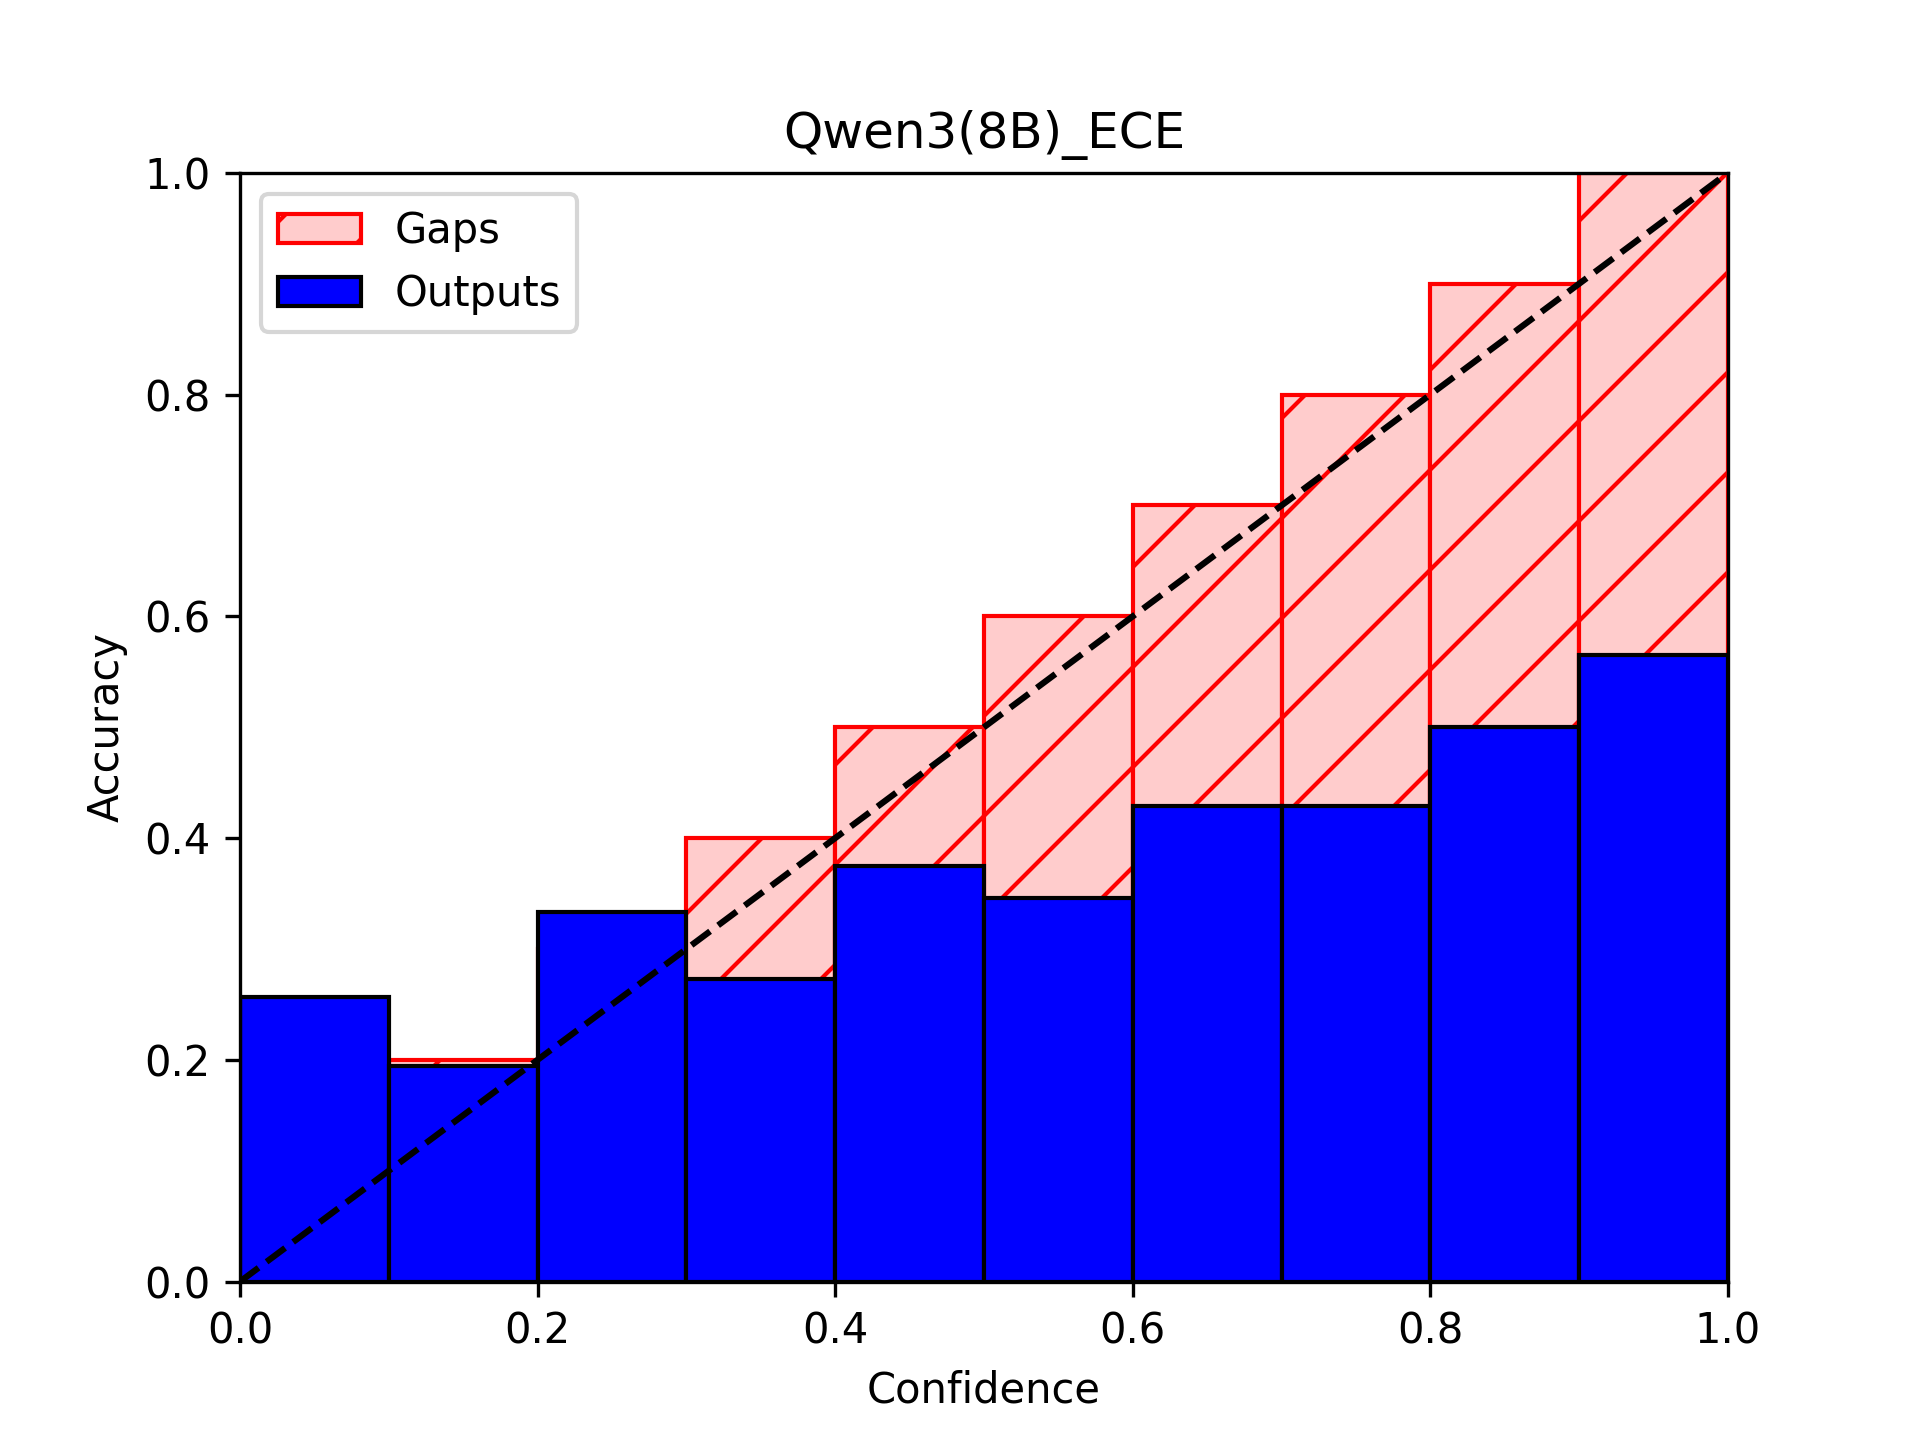
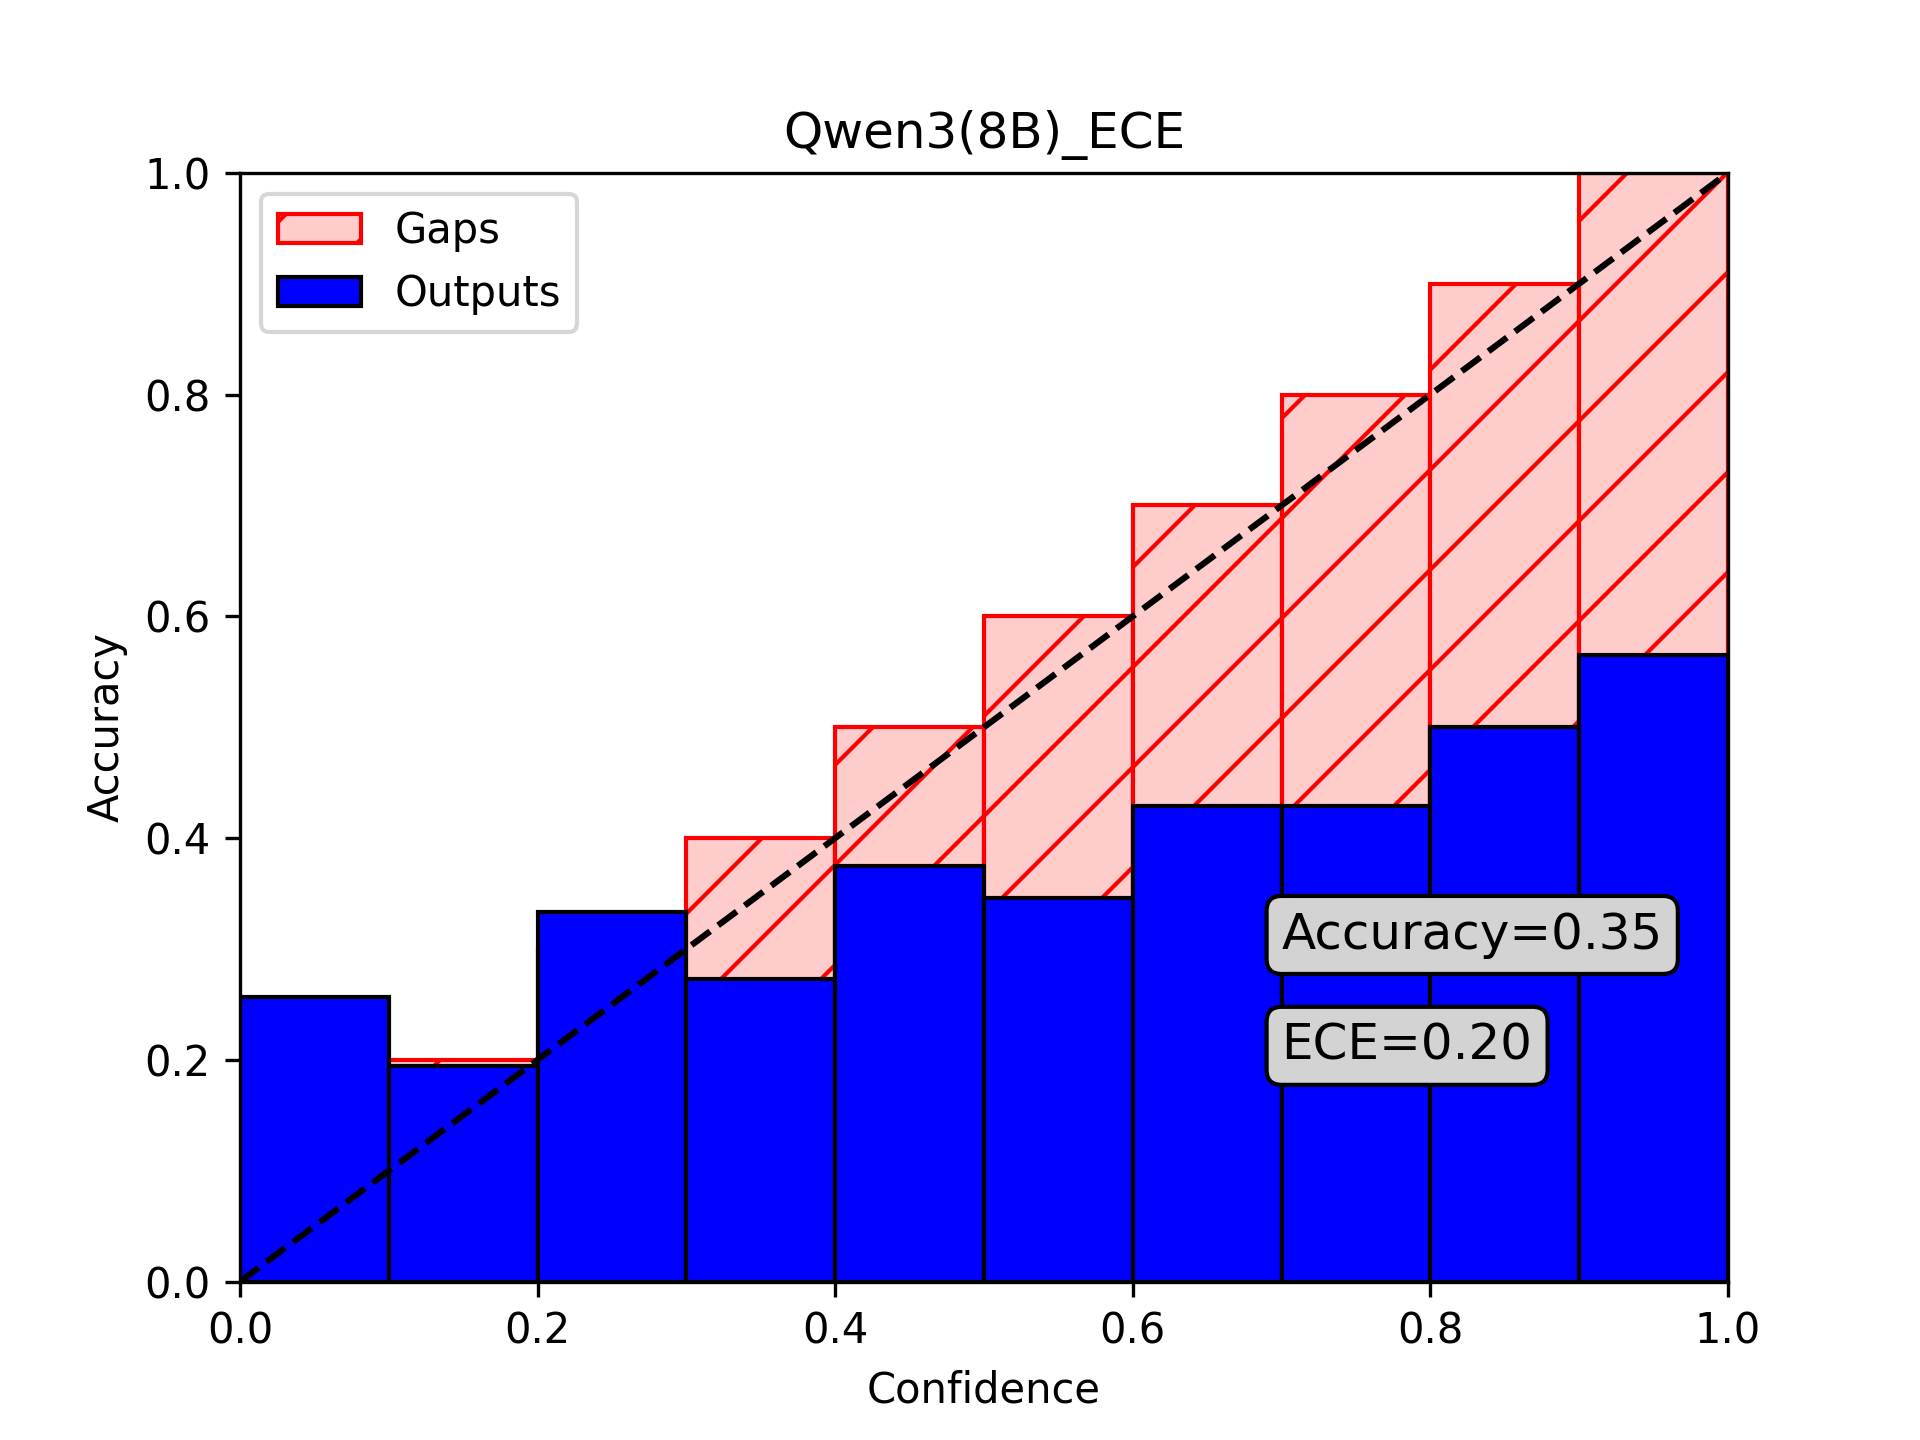
add acc and ECE to plot

Changed region(s): [[0.6562, 0.5938, 0.875, 0.7812]]

diff --git a/logits/ECE.py b/logits/ECE.py
@@ -107,7 +107,7 @@ def build_data(answers, correct_answers, qwen3_results):
     return data
 
 
-def calculate_acc(data):
+def calculate_acc_ECE(data):
     bin_0_1 = []
     bin_0_2 = []
     bin_0_3 = []
@@ -148,10 +148,28 @@ def calculate_acc(data):
             if entry['acc'] == 1:
                 acc += 1
         acc_list.append(acc/len(bin))
+    
+    confidence_list = []
+    for bin in [bin_0_1, bin_0_2, bin_0_3, bin_0_4, bin_0_5, bin_0_6, bin_0_7, bin_0_8, bin_0_9, bin_1_0]:
+        total_confidence = 0
+        for entry in bin:
+            total_confidence += entry['confidence'] 
+        confidence_list.append(total_confidence/len(bin))
+    
+    ece = 0
+    for a,b,c in zip(acc_list, confidence_list, [bin_0_1, bin_0_2, bin_0_3, bin_0_4, bin_0_5, bin_0_6, bin_0_7, bin_0_8, bin_0_9, bin_1_0]):
+        ece += abs(a-b) * (len(c)/len(data))
 
-    return acc_list
-        
-def plot_ECE(acc_list):
+    return acc_list, ece
+
+def calculate_overall_acc(data):
+    acc = 0
+    for entry in data:
+        if entry['acc'] == 1:
+            acc += 1
+    return acc/len(data)
+
+def plot_ECE(acc_list, overall_acc, ece):
 
     expected_acc = [0.1, 0.2, 0.3, 0.4, 0.5, 0.6, 0.7, 0.8, 0.9, 1.0]
 
@@ -159,6 +177,13 @@ def plot_ECE(acc_list):
 
     plt.bar([0.0, 0.1, 0.2, 0.3, 0.4, 0.5, 0.6, 0.7, 0.8, 0.9], acc_list, width=0.1, align='edge', label='Outputs', edgecolor='black', color='blue')
     plt.plot([0,1], [0,1], color='black', linestyle='--')
+    plt.text(0.7, 0.3, f'Accuracy={overall_acc:.2f}',
+         fontsize=12,
+         bbox=dict(facecolor='lightgray', edgecolor='black', boxstyle='round,pad=0.3'))
+    plt.text(0.7, 0.2, f'ECE={ece:.2f}',
+         fontsize=12,
+         bbox=dict(facecolor='lightgray', edgecolor='black', boxstyle='round,pad=0.3'))
+
     plt.xlabel('Confidence')
     plt.xlim(0.0, 1.0)
     plt.ylim(0.0, 1.0)
@@ -174,9 +199,11 @@ def main():
 
     data = build_data(answers, correct_answers, qwen3_results)
 
-    acc_list = calculate_acc(data)
+    acc_list, ece = calculate_acc_ECE(data)
 
-    plot_ECE(acc_list)
+    overall_acc = calculate_overall_acc(data)
+
+    plot_ECE(acc_list, overall_acc, ece)
 
 
 if __name__ == "__main__":
